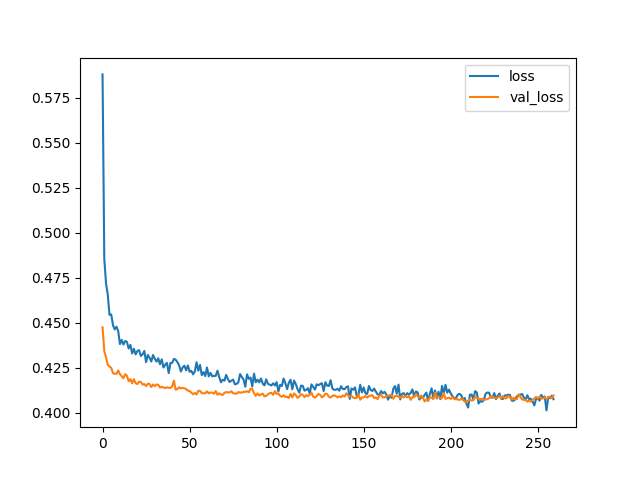
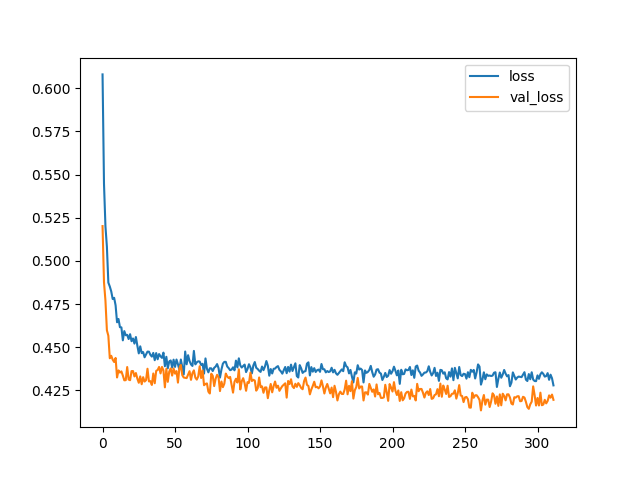
a few more models

diff --git a/Final/models/standard_scaler.py b/Final/models/standard_scaler.py
@@ -4,14 +4,12 @@ import matplotlib.pyplot as plt
 import seaborn as sns
 from sklearn.preprocessing import OneHotEncoder
 from sklearn.model_selection import train_test_split
-from sklearn.preprocessing import MinMaxScaler
+from sklearn.preprocessing import StandardScaler
 from tensorflow.keras.models import Sequential
 from tensorflow.keras.layers import Dense, Activation, Dropout
 from tensorflow.keras.callbacks import EarlyStopping
 from sklearn.metrics import classification_report, confusion_matrix, accuracy_score
-from sklearn.decomposition import PCA
 import time
-from sklearn.preprocessing import StandardScaler
 start_time = time.time()
 
 # read the data
@@ -41,40 +39,41 @@ for index, i in enumerate(columns):
         df_ohe = pd.concat([df_ohe, feature], axis=1)
         df_ohe.drop(index, axis=1, inplace=True)
 
-# pca
-# scale without col 11, the target col
-scaler = StandardScaler()
-scaler.fit(df_ohe.drop([11], axis=1))
-scaled_data = scaler.transform(df_ohe.drop([11], axis=1))
-pca = PCA(n_components=2)
-pca.fit(scaled_data)
-x_pca = pca.transform(scaled_data)
-
-
-# split data
-X = x_pca
+# set up X, y
+X = df_ohe.drop(11, axis=1).values
 y = df_ohe[11].values
+# split the data
 X_train, X_test, y_train, y_test = train_test_split(
     X, y, test_size=0.3, random_state=12)
+
+# scale the data
+scaler = StandardScaler()
+scaler.fit(X_train)
+X_train = scaler.transform(X_train)
+X_test = scaler.transform(X_test)
+
+# model set up
 early_stop = EarlyStopping(
     monitor='val_loss', mode='min', patience=50, verbose=1)
-model = Sequential()
-model.add(Dense(units=2, activation='relu'))
-model.add(Dropout(0.5))
 
+
+model = Sequential()
 model.add(Dense(units=50, activation='relu'))
 model.add(Dropout(0.5))
+
 model.add(Dense(units=25, activation='relu'))
 model.add(Dropout(0.5))
 model.add(Dense(units=1, activation='sigmoid'))
 # loss for binary
 model.compile(loss='binary_crossentropy', optimizer='adam')
+
+# fit
 model.fit(x=X_train, y=y_train, epochs=1000, validation_data=(
-    X_test, y_test), verbose=1, callbacks=early_stop)
+    X_test, y_test), verbose=0, callbacks=early_stop)
 
 # plot
 model_loss = pd.DataFrame(model.history.history)
-model_loss.plot().figure.savefig('pca_loss_n2.png')
+model_loss.plot().figure.savefig('standard_scaler_base_loss.png')
 
 
 # metrics

diff --git a/Final/models/complex_model.py b/Final/models/complex_model.py
@@ -9,9 +9,7 @@ from tensorflow.keras.models import Sequential
 from tensorflow.keras.layers import Dense, Activation, Dropout
 from tensorflow.keras.callbacks import EarlyStopping
 from sklearn.metrics import classification_report, confusion_matrix, accuracy_score
-from sklearn.decomposition import PCA
 import time
-from sklearn.preprocessing import StandardScaler
 start_time = time.time()
 
 # read the data
@@ -41,40 +39,48 @@ for index, i in enumerate(columns):
         df_ohe = pd.concat([df_ohe, feature], axis=1)
         df_ohe.drop(index, axis=1, inplace=True)
 
-# pca
-# scale without col 11, the target col
-scaler = StandardScaler()
-scaler.fit(df_ohe.drop([11], axis=1))
-scaled_data = scaler.transform(df_ohe.drop([11], axis=1))
-pca = PCA(n_components=2)
-pca.fit(scaled_data)
-x_pca = pca.transform(scaled_data)
-
-
-# split data
-X = x_pca
+# set up X, y
+X = df_ohe.drop(11, axis=1).values
 y = df_ohe[11].values
+# split the data
 X_train, X_test, y_train, y_test = train_test_split(
     X, y, test_size=0.3, random_state=12)
+
+# scale the data
+scaler = MinMaxScaler()
+scaler.fit(X_train)
+X_train = scaler.transform(X_train)
+X_test = scaler.transform(X_test)
+
+# model set up
 early_stop = EarlyStopping(
     monitor='val_loss', mode='min', patience=50, verbose=1)
-model = Sequential()
-model.add(Dense(units=2, activation='relu'))
-model.add(Dropout(0.5))
 
+
+model = Sequential()
 model.add(Dense(units=50, activation='relu'))
 model.add(Dropout(0.5))
-model.add(Dense(units=25, activation='relu'))
+
+model.add(Dense(units=250, activation='relu'))
 model.add(Dropout(0.5))
+
+model.add(Dense(units=2, activation='relu'))
+
+model.add(Dense(units=100, activation='relu'))
+model.add(Dropout(0.5))
+
+
 model.add(Dense(units=1, activation='sigmoid'))
 # loss for binary
 model.compile(loss='binary_crossentropy', optimizer='adam')
+
+# fit
 model.fit(x=X_train, y=y_train, epochs=1000, validation_data=(
     X_test, y_test), verbose=1, callbacks=early_stop)
 
 # plot
 model_loss = pd.DataFrame(model.history.history)
-model_loss.plot().figure.savefig('pca_loss_n2.png')
+model_loss.plot().figure.savefig('complex_model_loss.png')
 
 
 # metrics

diff --git a/Final/models/pca_n25.py b/Final/models/pca_n25.py
@@ -46,7 +46,7 @@ for index, i in enumerate(columns):
 scaler = StandardScaler()
 scaler.fit(df_ohe.drop([11], axis=1))
 scaled_data = scaler.transform(df_ohe.drop([11], axis=1))
-pca = PCA(n_components=2)
+pca = PCA(n_components=25)
 pca.fit(scaled_data)
 x_pca = pca.transform(scaled_data)
 
@@ -59,7 +59,7 @@ X_train, X_test, y_train, y_test = train_test_split(
 early_stop = EarlyStopping(
     monitor='val_loss', mode='min', patience=50, verbose=1)
 model = Sequential()
-model.add(Dense(units=2, activation='relu'))
+model.add(Dense(units=25, activation='relu'))
 model.add(Dropout(0.5))
 
 model.add(Dense(units=50, activation='relu'))
@@ -74,7 +74,7 @@ model.fit(x=X_train, y=y_train, epochs=1000, validation_data=(
 
 # plot
 model_loss = pd.DataFrame(model.history.history)
-model_loss.plot().figure.savefig('pca_loss_n2.png')
+model_loss.plot().figure.savefig('pca_loss_n25.png')
 
 
 # metrics
@@ -83,4 +83,4 @@ print(confusion_matrix(y_test, predictions))
 print(classification_report(y_test, predictions))
 print("accuracy_score", accuracy_score(y_test, predictions))
 
-print("\n This took", time.time() - start_time, "seconds to run")
+print("\nThis took", time.time() - start_time, "seconds to run")

diff --git a/Final/models/pca_n11.py b/Final/models/pca_n11.py
@@ -59,6 +59,8 @@ X_train, X_test, y_train, y_test = train_test_split(
 early_stop = EarlyStopping(
     monitor='val_loss', mode='min', patience=50, verbose=1)
 model = Sequential()
+model.add(Dense(units=11, activation='relu'))
+model.add(Dropout(0.5))
 model.add(Dense(units=50, activation='relu'))
 model.add(Dropout(0.5))
 
